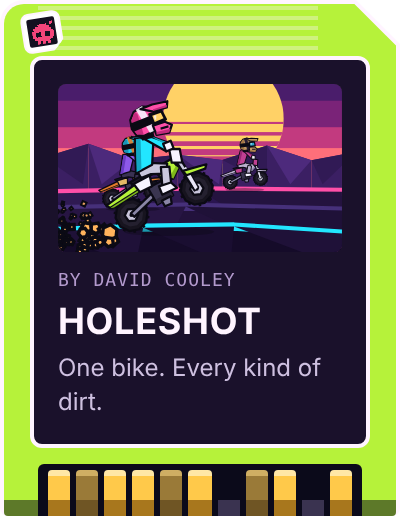
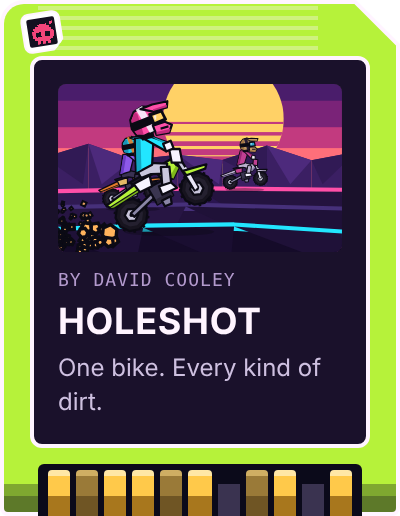
Site: the HOLESHOT cartridge in the brand kit (2x transparent PNG, download)
Claude-Session: https://claude.ai/code/session_01GvrW9iDZUVgckUGXjuSeoh

Changed region(s): [[0.12, 0.9302, 0.87, 0.9922], [0.0, 0.9302, 0.12, 1.0], [0.9, 0.9302, 0.99, 1.0]]

diff --git a/site/src/styles/site.css b/site/src/styles/site.css
@@ -246,7 +246,8 @@ html.bui[data-theme="light"] .bands::before{opacity:.22}
 .brand-tile img{display:block;width:100%;height:auto}
 .brand-tile.on-dark{background:#0b0a14}.brand-tile.on-light{background:#eef0fb}
 .brand-icon img{display:block;width:96px;height:96px}
-.brand-cart img{width:160px;height:auto}
+.brand-cart{order:1;grid-column:1/-1;grid-template-columns:auto 1fr;align-items:center;column-gap:22px}
+.brand-cart img{display:block;width:min(180px,40vw);height:auto;rotate:-3deg;filter:drop-shadow(calc(6px * var(--bui-sx)) calc(6px * var(--bui-sy)) 0 var(--bui-shadow))}
 .brand-palette .meta{margin:0 0 12px}
 .brand-palette ul{list-style:none;margin:0;padding:0;display:grid;grid-template-columns:1fr 1fr;gap:10px 14px}
 .brand-palette li{display:grid;grid-template-columns:30px 1fr;column-gap:10px;align-items:center;font:800 13px/1.2 var(--round);color:var(--ink)}

diff --git a/CHANGELOG.md b/CHANGELOG.md
@@ -2,7 +2,7 @@
 
 ## Unreleased
 
-- **The landing page, second pass: the game is the theme.** The attract race rides behind the hero again, with the brand over it (the lockup in the h1, the hook, PLAY) on a scrim that keeps the copy readable in dark and light. The hero paints first with a still of that race (`shots/hero.jpg`, `hero-800.jpg` for phones); the game's module loads after the page's load and an idle moment, never on the critical path, and fades in over the poster once it rides (reduced motion or Save-Data keep the poster; the demo's touch controls stay hidden). The box-art cover moves out of the hero into the brand kit, where it is shown whole. The header is about the game only (How to play, Controls, Ways to ride, Garage, Brand, the theme, PLAY); the source, Fizlet and David Cooley links move to a new footer, and there is no DOM VIRUS link or wording. New **Controls**: key caps from the game's real bindings, the gamepad, and an animated phone diagram of the stick and the throttle rocker (gas, the seam's wheelie, sliding onto COMBO with the gas held, the stick's bunny-hop flick), captioned step by step, a still labelled diagram under reduced motion. **Ways to ride** follows the game's grouping (Race: MX, SX and the series; Endless: the desert's grounds and Endless Wheelie City; Free Ride and Big Air; Mashup and Track Day marked coming soon, unlinked) with in-game stills (`shots/modes/`, 17–33 KB each, lazy; `node scripts/shots.mjs modes`, which never writes the owner's `og.jpg`). How to play is a numbered flow of tilted stickers with icons under the cover's striped sun; the garage says it plainly: 3 spots to start, grow to 6 as you win, money from every mode. Every hard shadow on the site falls straight down (Fizlet's `--shadow-x: 0; --shadow-y: 1`, through the Board UI kit's `--bui-sx`/`--bui-sy`), and the PLAY sticker drops its call ring. Measured (Chromium, local, 3 runs): first load 62.7 KB at 390 and 89.1 KB at 1440 (was 23.4 KB; the poster replaces the SVG cover), LCP the poster at ~410 ms at 390 with 4× CPU (was ~300 ms) and ~180 ms at 1440 (same); the game (~200 KB gzip) now arrives after idle instead of on scroll.
+- **The landing page, second pass: the game is the theme.** The attract race rides behind the hero again, with the brand over it (the lockup in the h1, the hook, PLAY) on a scrim that keeps the copy readable in dark and light. The hero paints first with a still of that race (`shots/hero.jpg`, `hero-800.jpg` for phones); the game's module loads after the page's load and an idle moment, never on the critical path, and fades in over the poster once it rides (reduced motion or Save-Data keep the poster; the demo's touch controls stay hidden). The box-art cover moves out of the hero into the brand kit, where it is shown whole. The brand kit adds the HOLESHOT cartridge (the lime shell, the cover on its label, vertical depth only; a 2× transparent PNG, lazy, downloadable). The header is about the game only (How to play, Controls, Ways to ride, Garage, Brand, the theme, PLAY); the source, Fizlet and David Cooley links move to a new footer, and there is no DOM VIRUS link or wording. New **Controls**: key caps from the game's real bindings, the gamepad, and an animated phone diagram of the stick and the throttle rocker (gas, the seam's wheelie, sliding onto COMBO with the gas held, the stick's bunny-hop flick), captioned step by step, a still labelled diagram under reduced motion. **Ways to ride** follows the game's grouping (Race: MX, SX and the series; Endless: the desert's grounds and Endless Wheelie City; Free Ride and Big Air; Mashup and Track Day marked coming soon, unlinked) with in-game stills (`shots/modes/`, 17–33 KB each, lazy; `node scripts/shots.mjs modes`, which never writes the owner's `og.jpg`). How to play is a numbered flow of tilted stickers with icons under the cover's striped sun; the garage says it plainly: 3 spots to start, grow to 6 as you win, money from every mode. Every hard shadow on the site falls straight down (Fizlet's `--shadow-x: 0; --shadow-y: 1`, through the Board UI kit's `--bui-sx`/`--bui-sy`), and the PLAY sticker drops its call ring. Measured (Chromium, local, 3 runs): first load 62.7 KB at 390 and 89.1 KB at 1440 (was 23.4 KB; the poster replaces the SVG cover), LCP the poster at ~410 ms at 390 with 4× CPU (was ~300 ms) and ~180 ms at 1440 (same); the game (~200 KB gzip) now arrives after idle instead of on scroll.
 
 ## 0.6.1 — 2026-11-19
 
